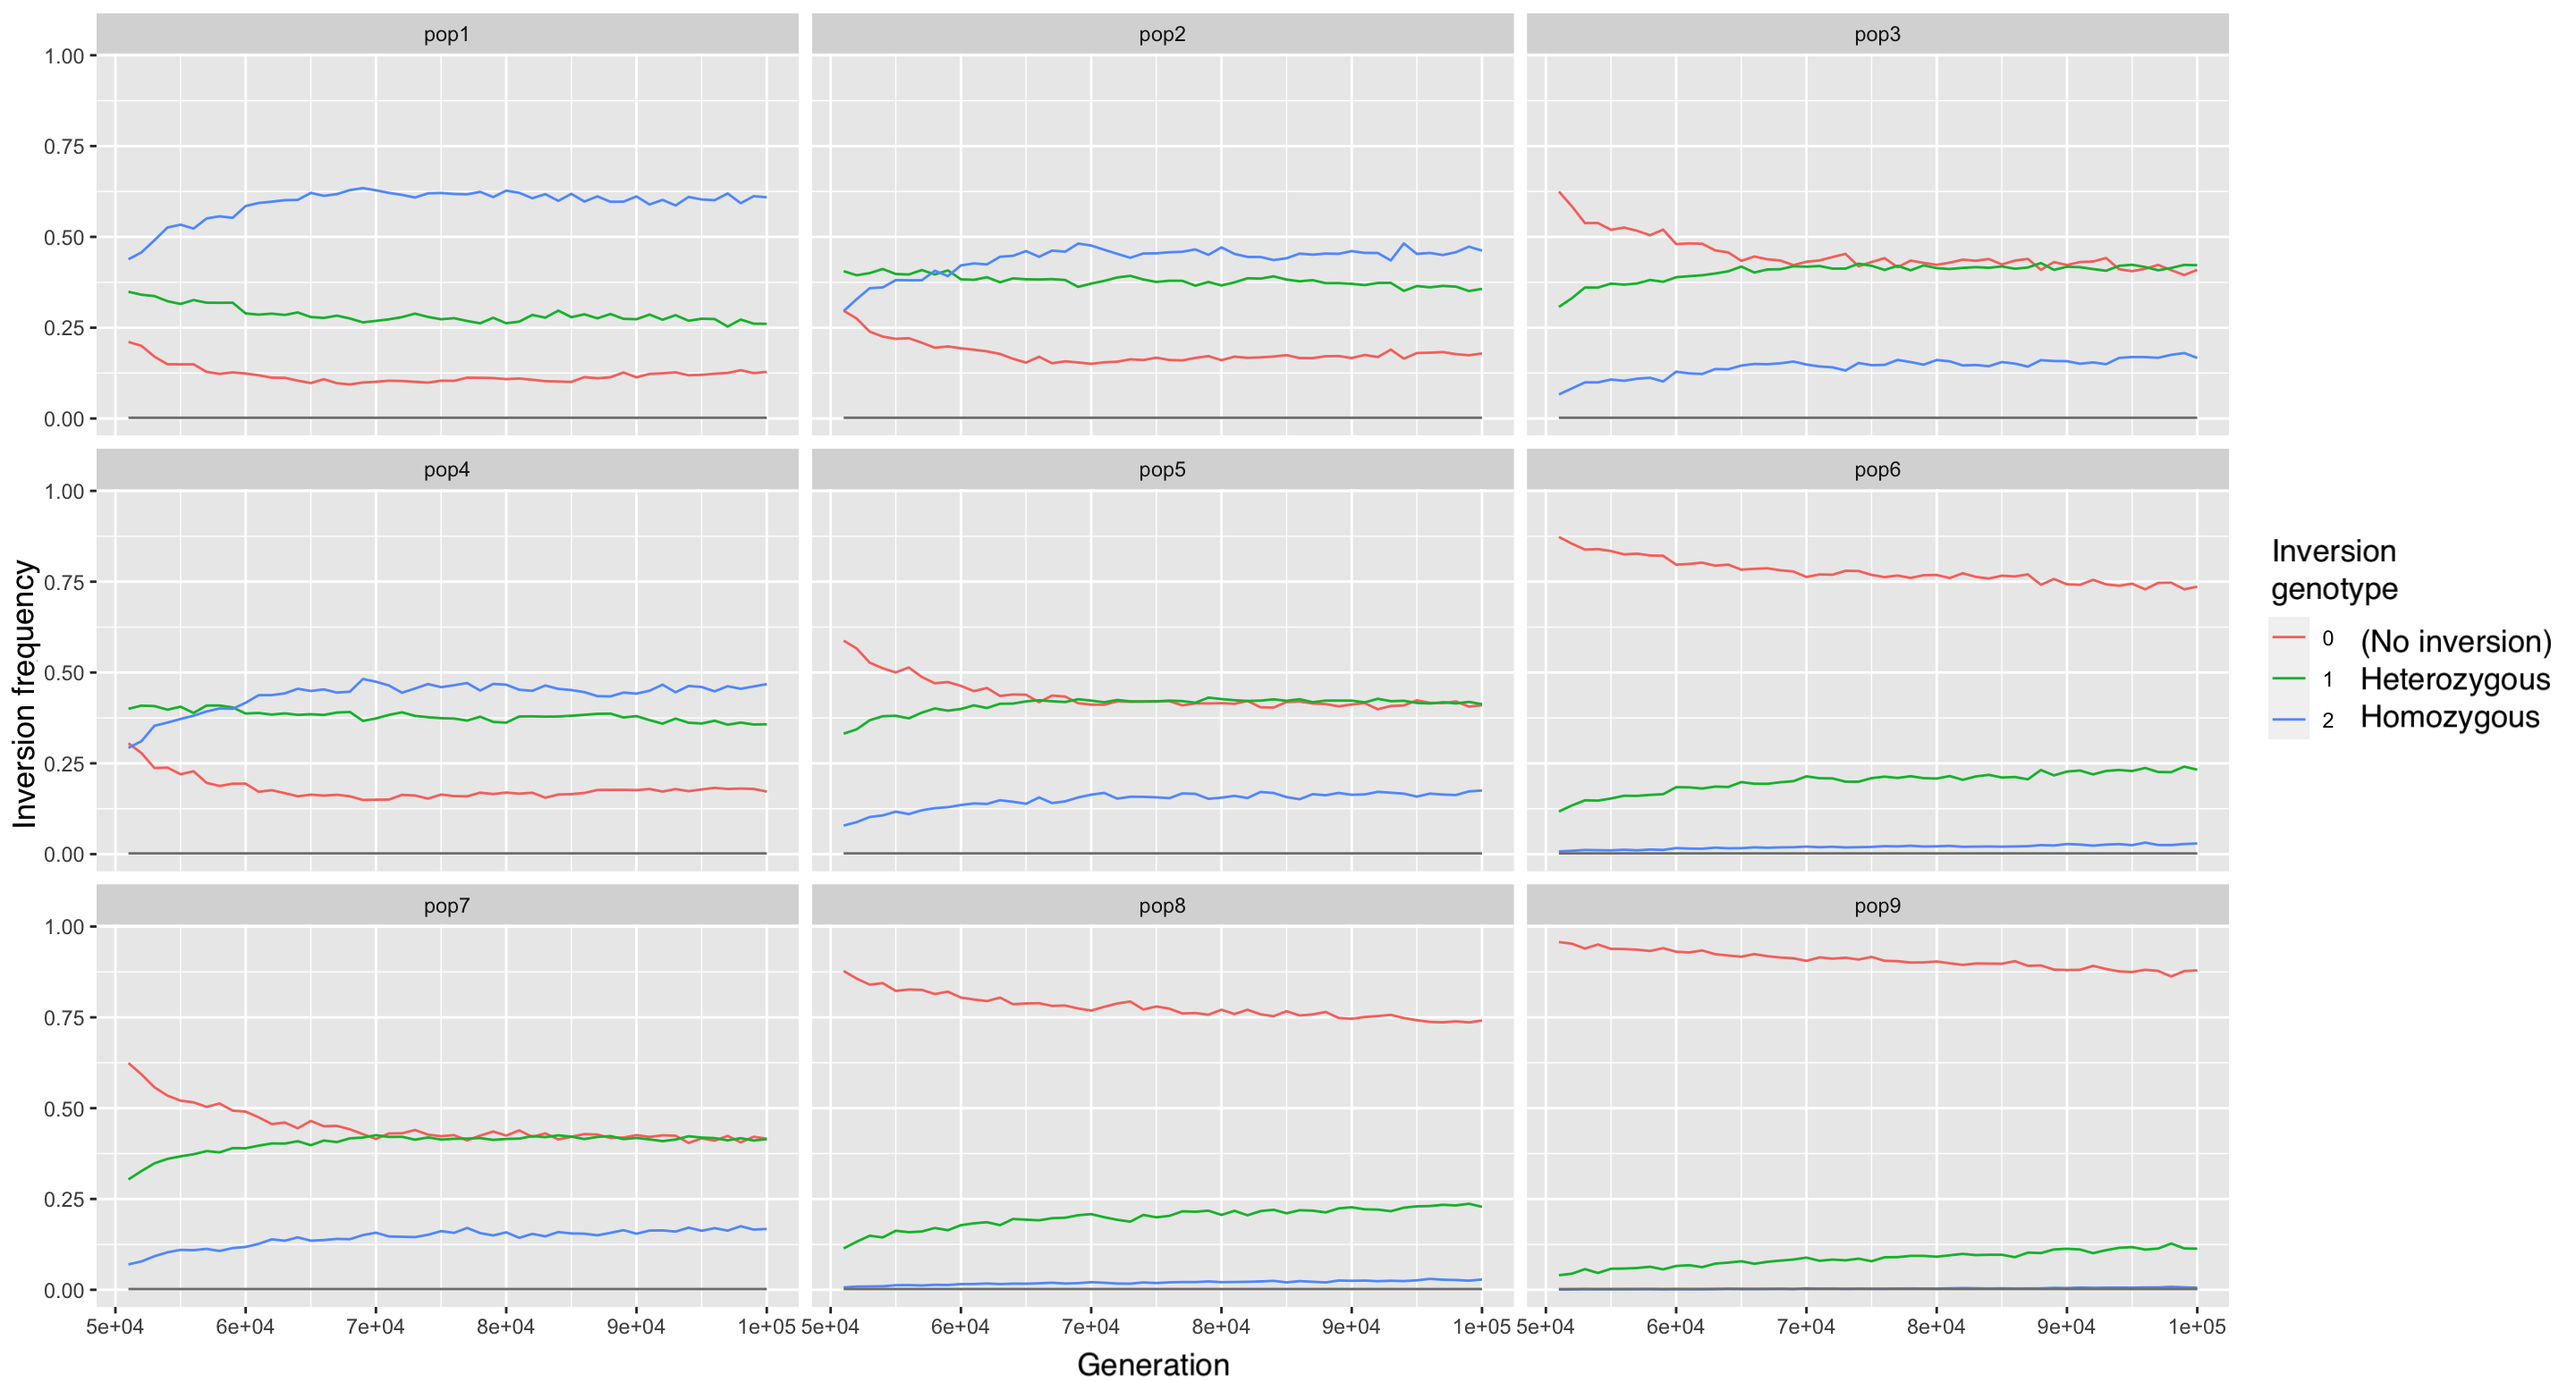
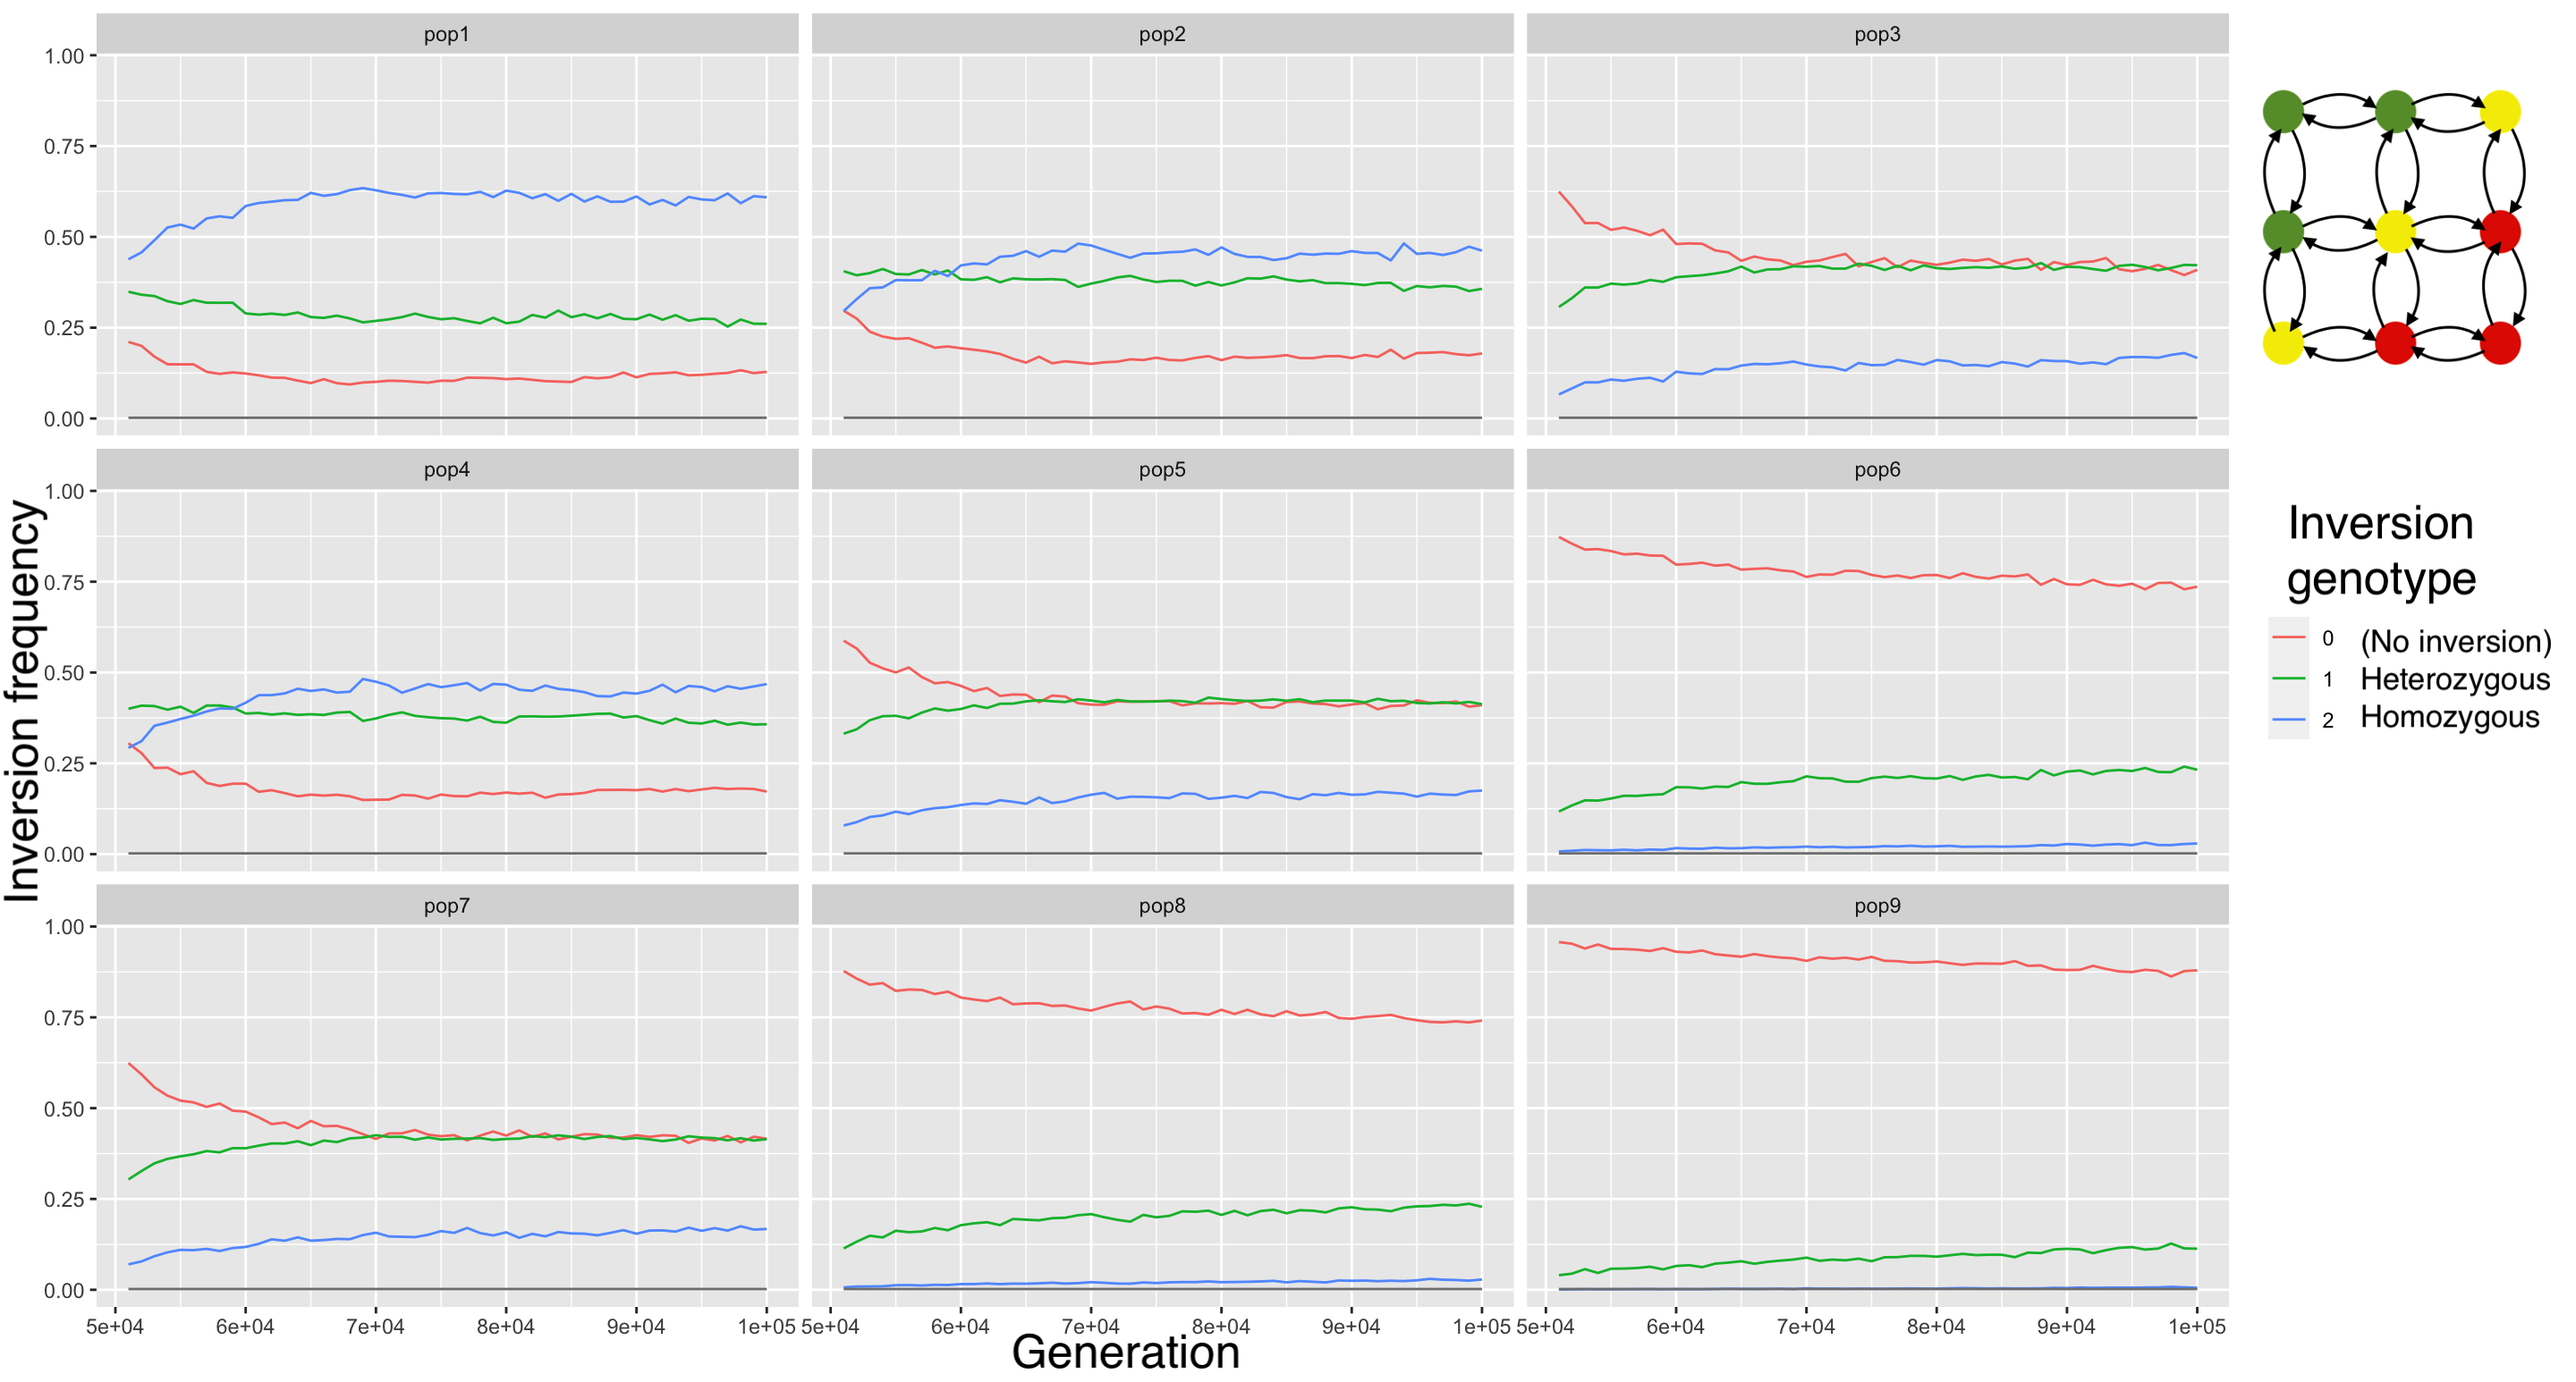
Rendered

diff --git a/docs/index.html b/docs/index.html
@@ -503,7 +503,7 @@
 <section id="how-inversions-spread-1" class="slide level2">
 <h2>How inversions spread</h2>
 
-<img data-src="images/faria_2019_2.jpg" style="width:50.0%" class="r-stretch quarto-figure-center"><p class="caption">Fig. 1, Faria et al., 2019 (Modified)</p><aside class="notes">
+<img data-src="images/faria_2019_2.jpg" style="width:50.0%" class="r-stretch quarto-figure-center"><p class="caption">Fig. 1, Faria et al.&nbsp;2019 (Modified)</p><aside class="notes">
 <p>More interested in this intermediate stage, whats happening as these inversions are maintained. In the case of our model, locally advantageous alleles causes some population divergence, but when does the mutational load increase tip this balance?</p>
 <style type="text/css">
         span.MJX_Assistive_MathML {
@@ -562,7 +562,7 @@
 </ul></li>
 </ul>
 </div><div class="column" style="width:40%;">
-<p><img data-src="images/populations.jpg" style="width:100.0%"></p>
+<p><img data-src="images/populations.png" style="width:100.0%"></p>
 </div>
 </div>
 </section>
@@ -728,30 +728,45 @@
           display:block!important;
       }</style></aside>
 </section>
-<section id="potential-future-results" class="slide level2">
-<h2>Potential future results</h2>
+<section id="expected-results" class="slide level2">
+<h2>Expected results</h2>
 
 <img data-src="images/example_graph_1.jpeg" class="r-stretch"></section>
-<section id="potential-future-results-1" class="slide level2">
-<h2>Potential future results</h2>
+<section id="expected-results-1" class="slide level2">
+<h2>Expected results</h2>
 
 <img data-src="images/example_graph_2.jpeg" class="r-stretch"></section>
 <section id="next-steps" class="slide level2">
 <h2>Next steps</h2>
 <ul>
-<li><p>Results could be unexpected because we have scaled down the model incorrectly, or the recombination function isn’t representative</p></li>
+<li><p>Results could be unexpected because of scaling issues, or the recombination function</p></li>
 <li><p>Could look at mutations trapped in the inversion next, plot their contents across runs</p></li>
 <li><p>Runs with an inversion with deleterious mutations locked in it may be outweighing the strict fitness benefit we give them</p></li>
 </ul>
+<aside class="notes">
+<p>Results could be unexpected because of scaling issues, or the recombination function isn’t representative. We scaled down more than Berdan et al., so any scaling differences could have resulted in the observed differences.</p>
+<style type="text/css">
+        span.MJX_Assistive_MathML {
+          position:absolute!important;
+          clip: rect(1px, 1px, 1px, 1px);
+          padding: 1px 0 0 0!important;
+          border: 0!important;
+          height: 1px!important;
+          width: 1px!important;
+          overflow: hidden!important;
+          display:block!important;
+      }</style></aside>
 </section>
 <section id="thank-you" class="slide level2">
 <h2>Thank you!</h2>
-<p>Acknowledgements:<br>
-SLiM development team (Ben Haller, Phillip Messer) as well as their slim-discuss Google forum<br>
-Dr.&nbsp;Greg Owens, whose guidance and work in sunflowers has spurred this interest in modelling inversions</p>
-<p>Questions?</p>
+<p>Acknowledgements: SLiM development team (Ben Haller, Phillip Messer) as well as their slim-discuss Google forum</p>
+<p>Dr.&nbsp;Greg Owens, whose guidance and work in sunflowers has spurred this interest in modelling inversions</p>
+</section>
+<section id="questions" class="slide level2">
+<h2>Questions?</h2>
 
-<div class="footer footer-default">
+
+<img data-src="images/end_slide.png" class="r-stretch quarto-figure-right"><div class="footer footer-default">
 
 </div>
 </section>
